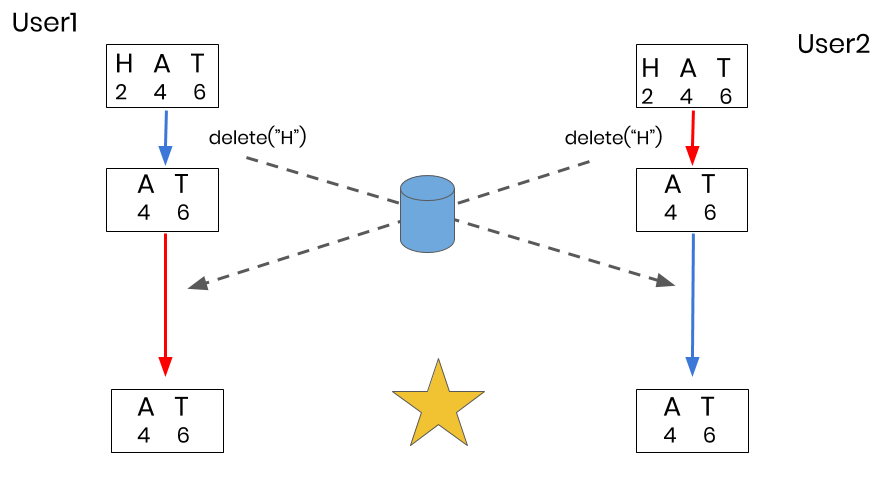
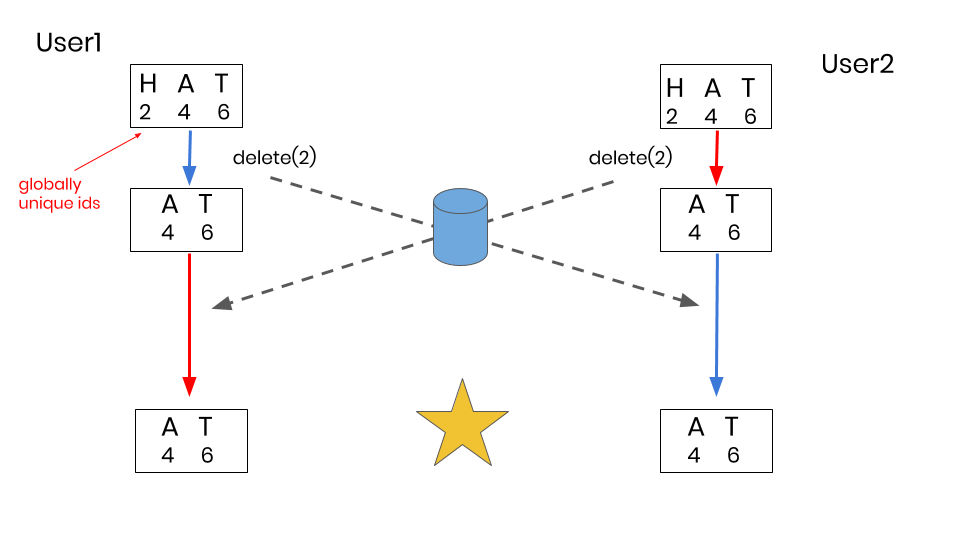
Revised CRDT section

diff --git a/index.md b/index.md
@@ -118,19 +118,23 @@ OT was the first popular way to allow for collaborative editing. The first colla
 ---
 ## Conflict-Free Replicated Data Type (CRDT)
 
-An alternative strategy that was named **Conflict-Free Replicated Data Types (CRDT)** was discovered by researchers while trying to strengthen and simplify OT.
+An alternative strategy was discovered by researchers while trying to strengthen and simplify OT. They called it the **Conflict-Free Replicated Data Type (CRDT)**.
 
-Like a basic text editor, OT treats each character as having a value and an absolute position and relies purely on an algorithm to achieve commutativity and idempotency. CRDTs take a different approach. With the CRDT strategy, researchers realized that there's no reason to treat the characters as just having a value and absolute position.
+OT is implemented without changing the fundamental structure of a basic text editor. Like a basic editor, OT treats each character as having a value and an absolute position. And to achieve the commutativity and idempotency required by a collaborative text editor, OT relies primarily on an algorithm.
 
-Instead, you add properties to the character object that allow for the  commutativity and idempotency required by a collaborative text editor. By using a more complex data structure, CRDTs allow for a much simpler algorithm than OT. To use CRDTs for a collaborative text editor, there are a couple critical requirements.
+CRDTs take a different approach. Researchers realized that there's no reason to treat the characters as just having a value and absolute position; they set out to change the underlying data structure of the text editor. Instead, properties are added to each character object that enabled commutativity and idempotency. Using a more complex data structure allows for a much simpler algorithm than OT.
 
-**Note:** There are lots of different examples of CRDTs with different requirements for different use cases. In this context, a CRDT is primarily a strategy for achieving consistent data without any kind of coordination (e.g. transformation) between replicas of that data. Since a text document requires the characters to be in a specific order, this type of CRDT can be called an ordered set CRDT.
+**Note:** There are many different types of CRDTs with different requirements for different use cases. In this context, a CRDT is primarily a strategy for achieving consistent data between replicas of data without any kind of coordination (e.g. transformation) between the replicas. Since a text document requires the characters to be in a specific order, the type of CRDT that we used is usually categorized as a sequence CRDT.
+
+To use CRDTs specifically for a collaborative text editor, there are a couple critical requirements.
 
 ### Globally Unique Characters
 
-The 1st requirement is that each character object be globally unique. This is achieved by assigning **Site ID** and **Site Counter** properties when inserting a character. Since the **Site Counter** at each site increments every time it inserts or deletes a character, we've ensured global uniqueness of all characters.
+The 1st requirement is that each character object must be globally unique. This is achieved by assigning **Site ID** and **Site Counter** properties whenever a new character is inserted. Since the **Site Counter** at each site increments whenever inserting or deleting a character, we ensure the global uniqueness of all characters.
 
 With globally unique characters, when a user sends a message to another user to delete a character, it can indicate precisely which character to delete. Let's see how this changes our earlier example.
+
+**Note:** For the purpose of simplifying the example, the globally unique ids are just integers. In reality, they'll be objects with Site ID and Site Counter properties.
 
 <figure>
   <center>
@@ -141,15 +145,15 @@ With globally unique characters, when a user sends a message to another user to 
   </figcaption>
 </figure>
 
-By ensuring globally unique character objects, we've achieved idempotency of delete operations in our collaborative text editor.
+With our CRDT, when a user receives a delete operation from another user, it looks for a globally unique character to delete. And if it has already deleted that character, then there's nothing more it can delete. By ensuring globally unique character objects, we've achieved idempotency of delete operations.
 
 ### Globally Ordered Characters
 
-The 2nd requirement has to do with character positioning. Since we're building a text editor, we already know that the characters must be ordered within a document. But in addition to that, we need the characters to be globally ordered and consistent. That means that when a user inserts a character, it will be placed in the same position (relative to other characters) on every user's document.
+The 2nd requirement for a collaborative text editor CRDT has to do with the positioning of characters. Since we're building a text editor, preserving the order of characters within a text document is required. But for a collaborative text editor where each user has their own copy of the document, we must go a step further. We need all the characters to be globally ordered and consistent. That means that when a user inserts a character, it will be placed in the same position on every user's copy of the shared document.
 
-In our initial text editor example, we noted that when inserting or deleting a character, the positions of surrounding characters would sometimes need to be shifted accordingly. Since characters can be shifted by a user without the other users' knowledge, we can end up in a situation where insert and delete operations do not commute.
+In our initial text editor example, we noted that when inserting or deleting a character, the positions of surrounding characters would sometimes need to be shifted accordingly. And since characters can be shifted by a user without the other users' knowledge, we can end up in a situation where insert and delete operations do not commute.
 
-We can avoid this problem and ensure commutativity by using **fractional indices** as opposed to numerical indices. In the example below, when a user insert an "H" at position 1, they more specifically intend to insert an "H" in between "C" and "A".
+We can avoid this problem and ensure commutativity by using **fractional indices** as opposed to numerical indices. In the example below, when a user insert an "H" at position 1, they specifically intend to insert an "H" in between "C" and "A".
 
 <figure>
   <center>
@@ -160,7 +164,7 @@ We can avoid this problem and ensure commutativity by using **fractional indices
   </figcaption>
 </figure>
 
-Instead of inserting the “H” at position 1 (and forcing the succeeding characters to shift/increment their position indices), we insert the "H" at a position between 0 and 1 (e.g. 0.5). We represent fractional indices in code as a list of integers (or **position identifiers**). For example, `O.5` is represented as `[0, 5]`.
+Using fractional indices, instead of inserting “H” at position 1, we insert "H" at a position between 0 and 1 (e.g. 0.5). We represent fractional indices in code as a list of integers (or **position identifiers**). For example, `O.5` is represented as `[0, 5]`.
 
 <figure>
   <center>
@@ -170,6 +174,8 @@ Instead of inserting the “H” at position 1 (and forcing the succeeding chara
     <small><strong>Inserting a character at a position in between two existing characters.</strong></small>
   </figcaption>
 </figure>
+
+The key is that by using franctional indices to insert characters, we never have to shift the positions of surrounding characters.
 
 Another way to imagine fractional indices is as a tree. As characters are inserted into the document, they can be inserted in between two existing position identifiers at one level of the tree. However, if there is no space between two existing character positions, as demonstrated below, we proceed to the next level of the tree and pick an available position value from there.
 
@@ -202,7 +208,7 @@ If you're paying attention, you'll be wondering what happens if two users insert
 ---
 ## Coding the CRDT
 
-Talking about CRDTs in theory is well enough, but how does someone go about coding it? It's actually simpler than you might think.
+So how does someone go about coding a CRDT? It's simpler than you might think.
 
 A CRDT needs certain properties to be functional:
 * A globally unique SiteID
@@ -530,130 +536,16 @@ So at this point, we now have a peer-to-peer, real-time, collaborative text edit
 
 As our team began to use Conclave, we noticed  aspects of the user experience that could be improved. We broke these areas for improvement into three categories:
 
-1. Editor Features
-2. CRDT Structure
-3. Peer-To-Peer Connection Management
-
----
-### Editor Features
-
-At this point, our collaborative editor worked but it wasn't very usable. To fix this, we implemented a few critical features: remote cursors, video chat, and upload/download buttons.
-
-#### Remote Cursors
-
-Having several people edit a document at the same time can be a chaotic experience. It becomes even more hectic when you don't know who else is typing and where.
-
-That is the situation we ran into. Without a way to identify another person on the page, users would end up writing over each other and turning the real-time collaboration experience into a headache. We solved this problem with remote cursors.
-
-{: .center}
-![remote_cursors](/blogImgs/remote_cursors.png)
-
-Each user is represented by a cursor with a unique color/animal combination that identifies them and their cursor's current location in the document.
-
-However, implementing remote cursors in a decentralized environment poses a problem. Without a central database to keep track of each user's cursor, how do we keep the remote cursors consistent between all nodes while preventing different users from ending up with the same color?
-
-Ensuring that users have unique cursors was as simple as adding an animal name to the cursor and having a large number of possible color/animal combinations.
-
-{: .center}
-![combinations](/blogImgs/combinations.png)
-
-To address the consistency issue, we ended up creating a simple modulo hashing algorithm that would reduce each user's ID into an index that mapped to a animal and color pairing.
-
-```javascript
-  addRemoteCursor() {
-    // ...
-
-    const color = generateItemFromHash(this.siteId, CSS_COLORS);
-    const name = generateItemFromHash(this.siteId, ANIMALS);
-
-    // ...
-  }
-
-  function generateItemFromHash(siteId, collection) {
-    const hashIdx = hashAlgo(siteId, collection);
-
-    return collection[hashIdx];
-  }
-
-  function hashAlgo(input, collection) {
-    const filteredNum = input.toLowerCase().replace(/[a-z\-]/g, '');
-    return Math.floor(filteredNum * 13) % collection.length;
-  }
-```
-
----
-#### Video Chat
-
-Since we were already using WebRTC for our data communication, we realized it would be relatively easy to add video chat capabilities to our site. It's often easier to communicate verbally and sometimes it's just nice to see a face.
-
-{: .center}
-![video_chat](/blogImgs/video.png)
-
-Users can click on any animal name in their list of peers to place a call request. The receiving user is alerted and must click the animal name to answer the call. The video modal can be dragged around the screen and minimized with a click. Clicking the **x** ends the call and all media channels are closed. Each user can only be on a call with one other user at a time.
-
-```javascript
-  videoCall(id, ms) {
-    navigator.mediaDevices.getUserMedia({audio: true, video: true})
-    .then(ms => {
-      if (!currentStream) {
-        const callObj = peer.call(id, ms);
-        callObj.on('stream', stream => {
-          streamVideo(stream, callObj);
-          callObj.on('close', () => {
-            currentStream.localStream.getTracks().forEach(track => track.stop());
-            currentStream = null;
-          });
-        });
-      }
-    });
-  }
-```
-
-In order for WebRTC to detect the media devices (camera and speaker) of any computer trying to join a video call, the initial signaling must be conducted over HTTPS. This prompted us to switch our server configuration to support HTTPS, which was obviously a really good change.
-
-#### Download and Upload
-
-Since there is no server to store documents, we realized we needed to provide a way for users to save what they are working on to use elsewhere at another time. Creating download functionality was simple enough. Any user can download the current contents of the editor to their computers under a timestamped filename.
-
-```javascript
-  downloadButton.onclick = () => {
-    const text = editor.value();
-    const blob = new Blob([text], { type:"text/plain" });
-    const link = document.createElement("a");
-
-    link.style.display = "none";
-    link.download = "Conclave-"+Date.now();
-    link.href = window.URL.createObjectURL(blob);
-    link.onclick = e => document.body.removeChild(e.target);
-
-    document.body.appendChild(link);
-    link.click();
-  }
-```
-
-When the download button is clicked, the text in the editor is converted to a plain text blob object. An invisible link is created with its href property set to this blob as a URL and its download property set to the filename (Conclave and a timestamp). The link is added to the DOM, clicked, and then removed.
-
-On the other hand, what if someone wants to continue editing a file they downloaded earlier or start with something other than a blank document? We decided to add the ability to upload a file, also. To prevent massive erasure and potential confusion, only a user who starts a new document will have the option to upload. Users joining a collaboration session will not see the upload button.
-
-```javascript
-  fileSelect.onchange = () => {
-    const file = document.querySelector("#file").files[0];
-    const fileReader = new FileReader();
-    fileReader.onload = (e) => {
-      const fileText = e.target.result;
-      localInsert(fileText, { line: 0, ch: 0 });
-      replaceText(crdt.toText());
-    }
-    fileReader.readAsText(file, "UTF-8");
-  }
-```
-
-We used javaScript's built-in FileReader to read the contents of the file selected for upload. The text is inserted into the user's CRDT and then the editor view is replaced entirely by the data in the CRDT. Updating the editor is fast but insertion into the data structure happens one character at a time, so large documents take quite a while. This is an area for future improvement.
+- CRDT Structure
+- Peer-To-Peer Connection Management
+- Editor Features
 
 ---
 ### CRDT Structure
 
-As mentioned in the **Coding the CRDT** section of this case study, we initially used a linear array as the base of our CRDT. This structure works fine for small documents but becomes very inefficient once the text reaches a larger size. This is mainly due to shifting all the characters in the array whenever an insertion or deletion is performed.
+https://conclave-team.github.io/conclave-site/#coding-a-crdt
+
+As mentioned in [Coding the CRDT)(https://conclave-team.github.io/conclave-site/#coding-a-crdt), we initially structured our CRDT as a linear array of characters. This works well for small documents but becomes very inefficient once the text reaches a larger size. This is mainly due to shifting all the characters in the array whenever an insertion or deletion is performed.
 
 Another issue we ran into is the slow communication between our CodeMirror editor and our CRDT. Whenever a character is inserted into or deleted from the editor, CodeMirror returns a position object that indicates which line that change was made on and the index on that line.
 
@@ -694,11 +586,7 @@ We were pretty happy with that.
 
 The third optimization we made was with how we managed WebRTC connections between users. While WebRTC allows users to connect directly to each other, it’s up to the developer to manage those connections and distribute them through the network.
 
----
-
-**Sidenote:** We define *"network"* as the web of peer-to-peer connections. In this context, the *"network"* is only made up of users --  there are no servers.
-
----
+**Note:** We define *"network"* as the web of peer-to-peer connections. In this context, the *"network"* is only made up of the users collaborating on a document --  there are no servers.
 
 One problem we ran into was users getting stranded or cut off from the network. Say we have three users, like in the diagram below.
 
@@ -776,6 +664,125 @@ However, through testing and trial-and-error, we discovered that a logarithmic s
 Load balancing is not a perfect solution. While it does remove a single point of failure, it doesn't prevent bottlenecks from being formed. There are further optimizations that can be made, which leads to the next section.
 
 ---
+### Editor Features
+
+At this point, our collaborative editor worked but it wasn't very usable. To fix this, we implemented a few critical features: remote cursors, video chat, and upload/download buttons.
+
+#### Remote Cursors
+
+Having several people edit a document at the same time can be a chaotic experience. It becomes even more hectic when you don't know who else is typing and where.
+
+That is the situation we ran into. Without a way to identify another person on the page, users would end up writing over each other and turning the real-time collaboration experience into a headache. We solved this problem with remote cursors.
+
+{: .center}
+![remote_cursors](/blogImgs/remote_cursors.png)
+
+Each user is represented by a cursor with a unique color/animal combination that identifies the user and their cursor's location in the document.
+
+Implementing remote cursors in a decentralized environment isn't trivial. Without a central database to keep track of each user's cursor, how do we keep the remote cursors combinations consistent among all users and prevent users from ending up with the same color/animal combinations?
+
+To address the consistency issue, we created a simple modulo hashing algorithm that reduces each user's unique **Site ID** into an index that maps to a color/animal combination.
+
+```javascript
+  addRemoteCursor() {
+    // ...
+
+    const color = generateItemFromHash(this.siteId, CSS_COLORS);
+    const name = generateItemFromHash(this.siteId, ANIMALS);
+
+    // ...
+  }
+
+  function generateItemFromHash(siteId, collection) {
+    const hashIdx = hashAlgo(siteId, collection);
+
+    return collection[hashIdx];
+  }
+
+  function hashAlgo(input, collection) {
+    const filteredNum = input.toLowerCase().replace(/[a-z\-]/g, '');
+    return Math.floor(filteredNum * 13) % collection.length;
+  }
+```
+
+With 221 possible animals and 210 possible colors, it's unlikely users will ever have the same color/animal combo.
+
+{: .center}
+![combinations](/blogImgs/combinations.png)
+
+#### Video Chat
+
+Since we're already using WebRTC to send text messages between users, we realized it'd be relatively simple to add video chat as well.
+
+{: .center}
+![video_chat](/blogImgs/video.png)
+
+To place a call, users click on any animal in their list of peers. The receiving user is alerted and can answer the call by clicking your animal in their list of peers. A video modal pops up on both screens and can be dragged around the screen to a more convenient location. Clicking the **x** ends the call and all WebRTC media channels are closed. At the moment, a user can only be on a video call with one other user at a time.
+
+```javascript
+  videoCall(id, ms) {
+    navigator.mediaDevices.getUserMedia({audio: true, video: true})
+    .then(ms => {
+      if (!currentStream) {
+        const callObj = peer.call(id, ms);
+        callObj.on('stream', stream => {
+          streamVideo(stream, callObj);
+          callObj.on('close', () => {
+            currentStream.localStream.getTracks().forEach(track => track.stop());
+            currentStream = null;
+          });
+        });
+      }
+    });
+  }
+```
+
+**Note:** In order for WebRTC to detect the media devices (camera and speaker) of any computer trying to join a video call, the initial signaling must be conducted over HTTPS.
+
+#### Download
+
+Since we eliminated the central relay server, there is no server to store a user's documents. We needed to provide a way for users to save what they were working on. Adding a download button was simple. Any user can click the **Download** button to save the current document text to their computer.
+
+```javascript
+  downloadButton.onclick = () => {
+    const text = editor.value();
+    const blob = new Blob([text], { type:"text/plain" });
+    const link = document.createElement("a");
+
+    link.style.display = "none";
+    link.download = "Conclave-"+Date.now();
+    link.href = window.URL.createObjectURL(blob);
+    link.onclick = e => document.body.removeChild(e.target);
+
+    document.body.appendChild(link);
+    link.click();
+  }
+```
+
+When the download button is clicked, the text in the editor is converted to a plain text blob object. An invisible link is created with its href property set to this blob as a URL and its download property set to the filename. The link is added to the DOM, clicked, and then removed.
+
+#### Upload
+
+In a similar vein, what if someone wants to continue editing a previously downloaded file or some existing document? To support this, we added the ability to upload a file.
+
+We used JavaScript's built-in FileReader to read the contents of the file selected for upload. The text is inserted into the user's CRDT and then their editor text is replaced entirely by the data in the CRDT. Updating the editor is fast but insertion into the data structure happens one character at a time, so large documents can take a while. This is an area for future improvement.
+
+
+```javascript
+  fileSelect.onchange = () => {
+    const file = document.querySelector("#file").files[0];
+    const fileReader = new FileReader();
+    fileReader.onload = (e) => {
+      const fileText = e.target.result;
+      localInsert(fileText, { line: 0, ch: 0 });
+      replaceText(crdt.toText());
+    }
+    fileReader.readAsText(file, "UTF-8");
+  }
+```
+To prevent massive erasure and potential confusion, only a user who starts a new document will have the option to upload. Users joining a collaboration session will not see the upload button.
+---
+
 ## Future Plans
 
 This is an ongoing project and the Conclave Team has several plans in store.
@@ -784,15 +791,15 @@ This is an ongoing project and the Conclave Team has several plans in store.
 
 The first thing to further improve would be the connection distribution for users in the network. A possibility we are entertaining is to have newcomers connect to more than one person initially. This will prevent collaborators from falling into limbo if one of their connections drops and forces them to find a new peer.
 
-**Mass insertions and deletions**
+**Mass Insertions/Deletions**
 
 Right now our CRDT can only insert and delete one character at a time. Being able to add or remove chunks of text at once will drastically improve overhead and improve the efficiency of large cuts and pastes (as well as uploads).
 
-**Automatic testing for P2P network**
+**P2P Network Automated Testing**
 
 Testing the peer-to-peer nature of Conclave is difficult. The majority of our bug finding has been through manual testing, which is inefficient and risky. Unfortunately, in order to simulate real world latency and scenarios, we would need to buy server space in data centers across the country and world. It is feasible, but we don't currently have the resources to achieve such a feat.
 
-**Embeddable browser editor**
+**Embeddable Browser Editor**
 
 {: .center}
 ![teletype](/blogImgs/teletype.png)
